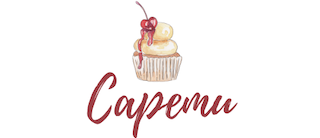
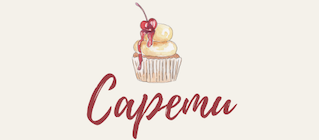
追記

diff --git a/app/assets/stylesheets/public/cafes.scss b/app/assets/stylesheets/public/cafes.scss
@@ -1,3 +1,4 @@
 // Place all the styles related to the public/cafes controller here.
 // They will automatically be included in application.css.
 // You can use Sass (SCSS) here: https://sass-lang.com/
+

diff --git a/app/javascript/stylesheets/application.scss b/app/javascript/stylesheets/application.scss
@@ -1,1 +1,6 @@
 @use '~bootstrap/scss/bootstrap';
+
+  body {
+    background-color: #f5f2eb;
+  }
+

diff --git a/app/models/resevation.rb b/app/models/resevation.rb
@@ -3,5 +3,5 @@ class Resevation < ApplicationRecord
          
          validates :cafe_id, :name, presence: true
     
-        enum payment_method: { クレジットカード: 0, 店頭でお支払: 1 }
+        enum payment_method: { クレジットカード: 0, 店頭でお支払い: 1 }
 end

diff --git a/app/controllers/public/resevations_controller.rb b/app/controllers/public/resevations_controller.rb
@@ -1,10 +1,6 @@
 class Public::ResevationsController < ApplicationController
   before_action :move_to_signed_in, except: [:new]
   
-  def index
-    @resevations = Resevation.where(customer_id: current_customer.id)
-  end
-  
   def new
     @resevation = Resevation.new
   end
